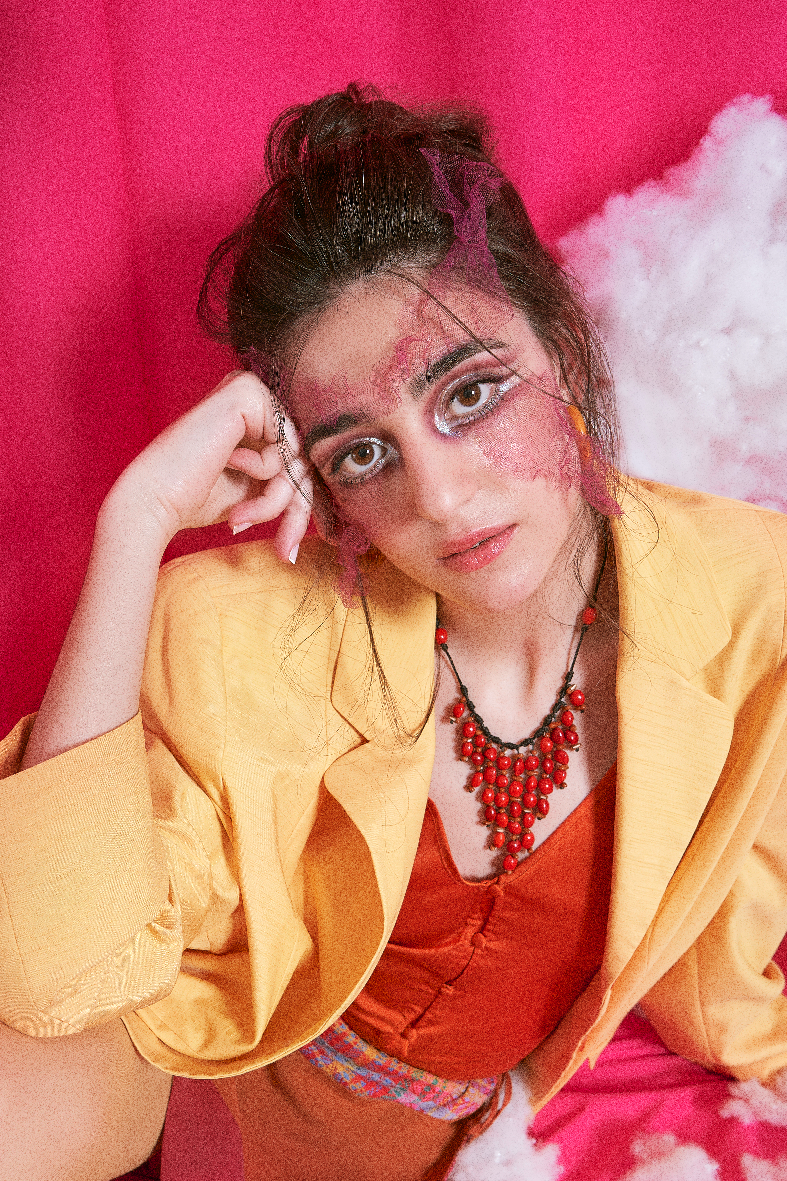
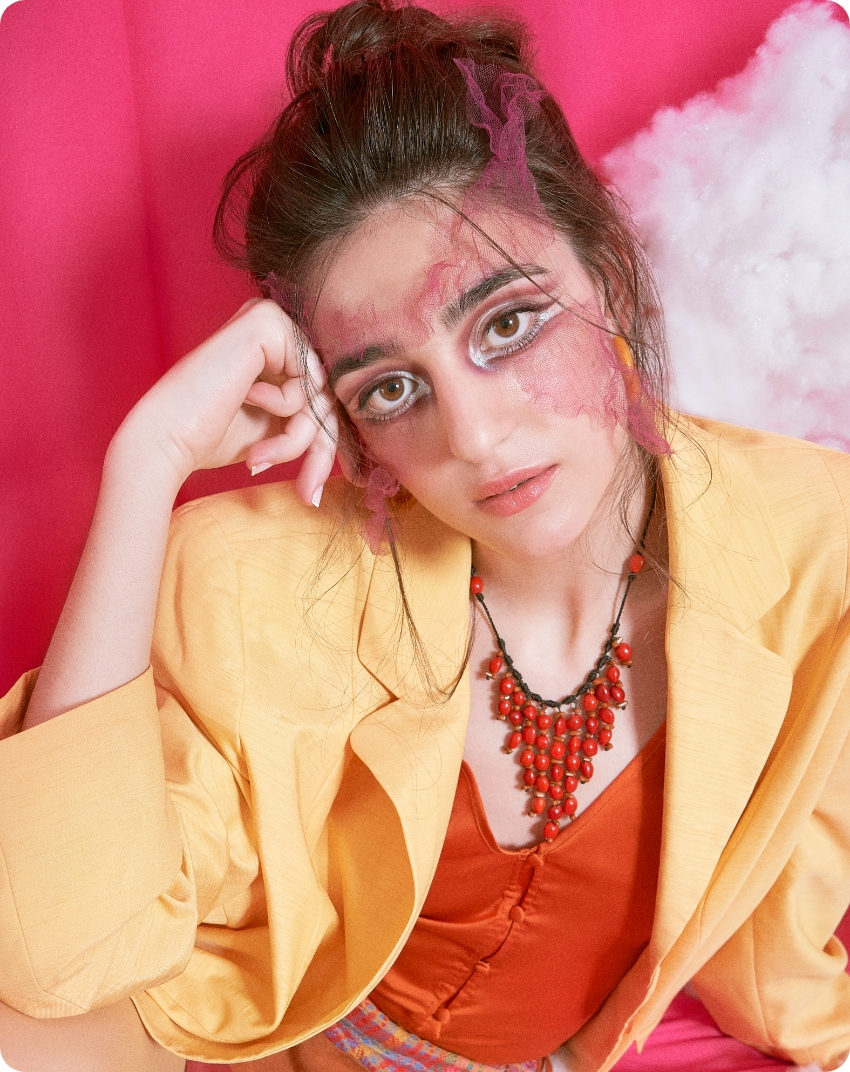
Update of picture on welcome page. CSS updates on article/sold components.

diff --git a/public/css/app.css b/public/css/app.css
@@ -382,7 +382,7 @@ body {
   min-width: 280px;
   background: white;
   box-shadow: 0px 6px 15px #00000029;
-  border-radius: 25px;
+  border-radius: 9px;
   padding: 16px 18px;
   margin-bottom: 50px;
   position: relative;
@@ -412,7 +412,7 @@ body {
   max-height: 60vh;
   background: white;
   overflow: hidden;
-  border-radius: 25px;
+  border-radius: 9px;
   position: relative;
   z-index: 1;
   margin-bottom: 22px;
@@ -483,7 +483,7 @@ body {
   min-width: 280px;
   background: white;
   box-shadow: 0px 6px 15px #00000029;
-  border-radius: 25px;
+  border-radius: 9px;
   padding: 16px 18px;
   margin-bottom: 50px;
   position: relative;
@@ -513,7 +513,7 @@ body {
   max-height: 60vh;
   background: white;
   overflow: hidden;
-  border-radius: 25px;
+  border-radius: 9px;
   position: relative;
   z-index: 1;
   margin-bottom: 22px;

diff --git a/resources/css/components/_article_overview.scss b/resources/css/components/_article_overview.scss
@@ -3,7 +3,7 @@
 	min-width: 280px;
 	background: white;
 	box-shadow: 0px 6px 15px #00000029;
-	border-radius: 25px;
+	border-radius: 9px;
 	padding: 16px 18px;
 	margin-bottom: 50px;
 	position: relative;
@@ -34,7 +34,7 @@
 		max-height: 60vh;
 		background: white;
 		overflow: hidden;
-		border-radius: 25px;
+		border-radius: 9px;
 		position: relative;
 		z-index: 1;
 		margin-bottom: 22px;

diff --git a/resources/css/components/_sold_overview.scss b/resources/css/components/_sold_overview.scss
@@ -3,7 +3,7 @@
 	min-width: 280px;
 	background: white;
 	box-shadow: 0px 6px 15px #00000029;
-	border-radius: 25px;
+	border-radius: 9px;
 	padding: 16px 18px;
 	margin-bottom: 50px;
 	position: relative;
@@ -34,7 +34,7 @@
 		max-height: 60vh;
 		background: white;
 		overflow: hidden;
-		border-radius: 25px;
+		border-radius: 9px;
 		position: relative;
 		z-index: 1;
 		margin-bottom: 22px;
